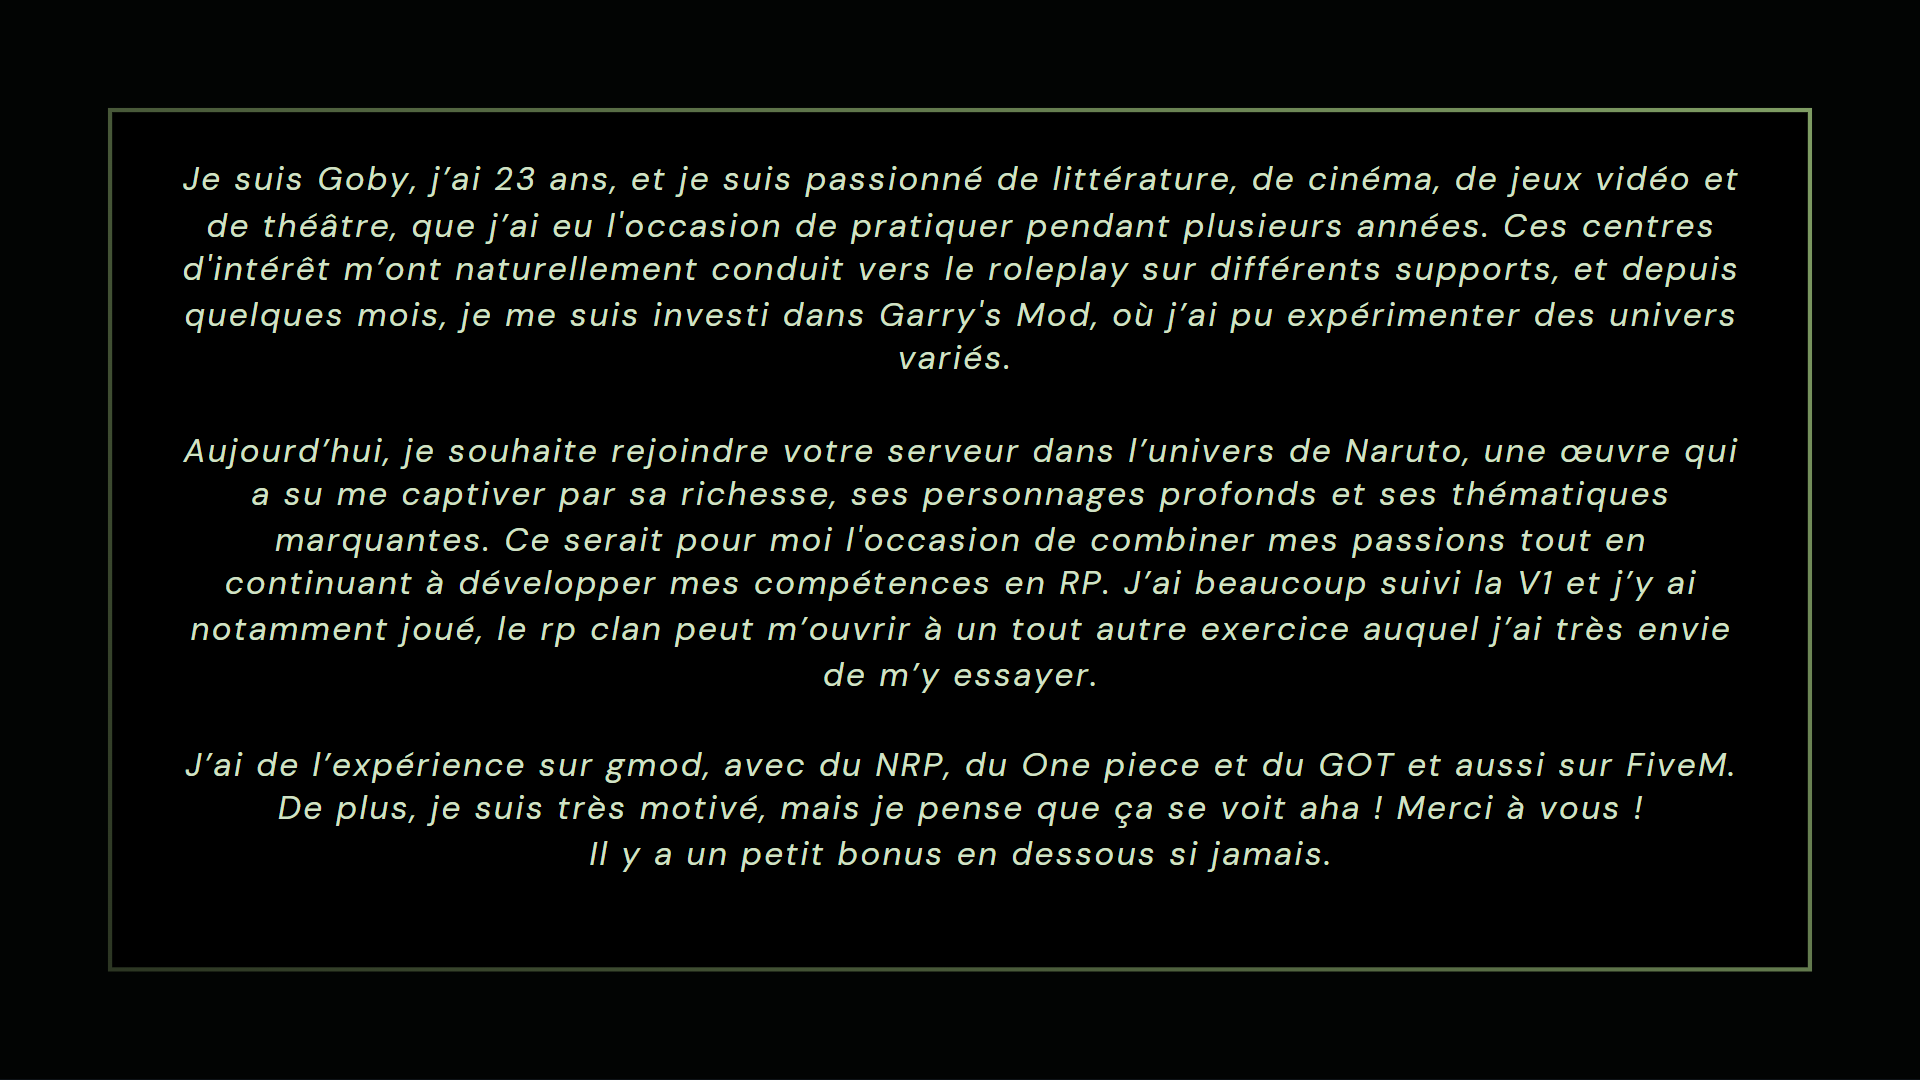
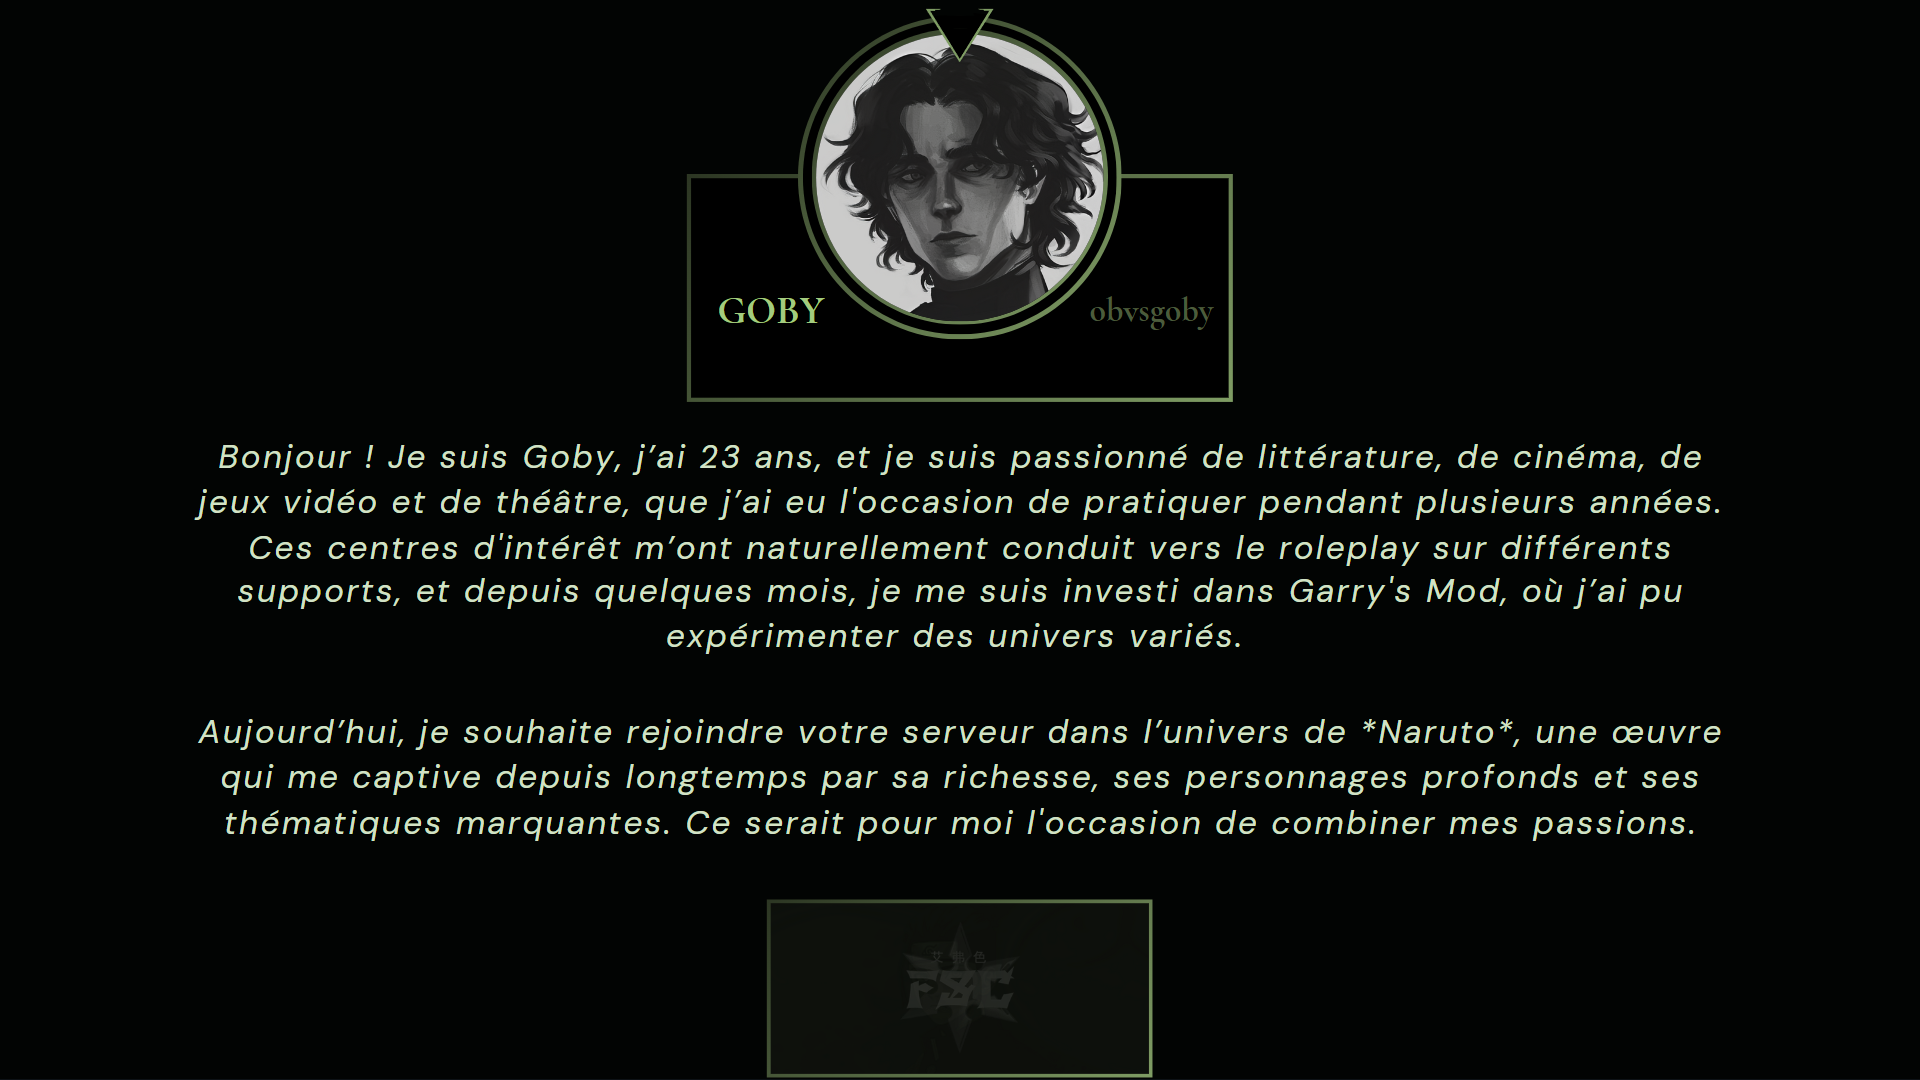
Add files via upload

diff --git a/index.html b/index.html
@@ -35,6 +35,12 @@
     <section class="image-section small-section" style="background-image: url('ambitionkurai.png');"></section>
     <section class="image-section small-section" style="background-image: url('ambitionkurai2.png');"></section>
     <section class="image-section small-section" style="background-image: url('hrpgoby.png');"></section>
+
+    <!-- Nouvelles images ajoutées entre hrpgoby.png et nouvelle.png -->
+    <section class="image-section small-section" style="background-image: url('hrpgoby2.png');"></section>
+    <section class="image-section small-section" style="background-image: url('hrpgoby3.png');"></section>
+
+    <!-- Suites des sections d'images -->
     <section class="image-section small-section" style="background-image: url('nouvelle.png');"></section>
     <section class="image-section small-section" style="background-image: url('nouvelle2.png');"></section>
     <section class="image-section small-section" style="background-image: url('nouvelle3.png');"></section>
